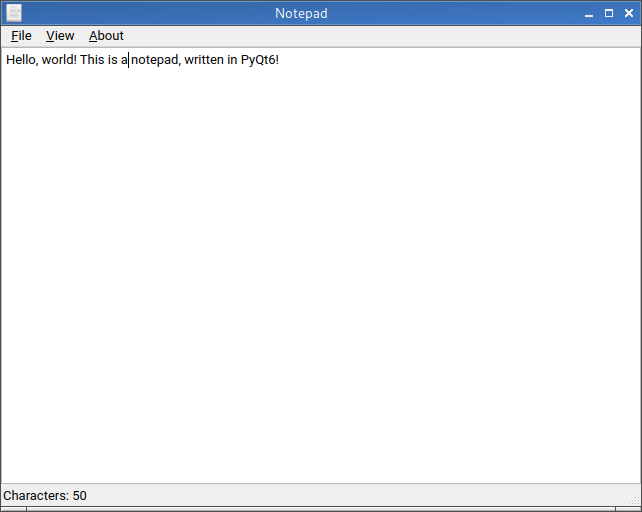
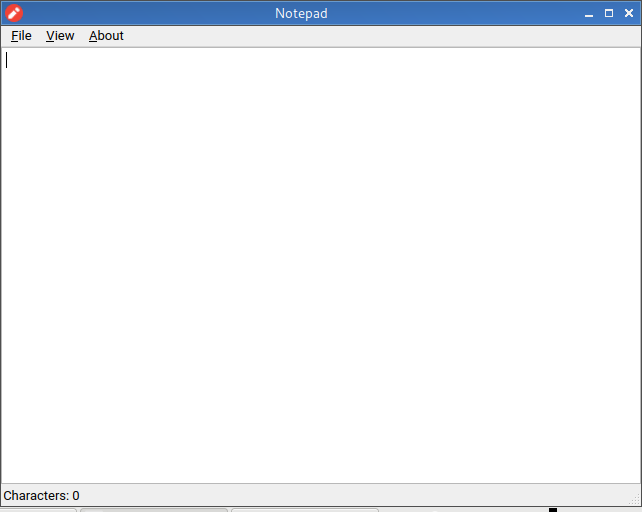
Some improvements

Changed region(s): [[0.0, 0.9375, 1.0, 1.0], [0.0, 0.0938, 0.4361, 0.125], [0.0, 0.0, 0.0312, 0.0625]]

diff --git a/pyqt-notepad.py b/pyqt-notepad.py
@@ -8,6 +8,7 @@ class Window(QMainWindow):
 
         self.setWindowTitle("Notepad")
         self.resize(640,480)
+        self.setWindowIcon(QtGui.QIcon.fromTheme(u"accessories-text-editor"))
         
         font = QtGui.QFont()
 
@@ -35,14 +36,10 @@ class Window(QMainWindow):
         font_settings = view_menu.addAction("Font settings", self.action_clicked)
 
         about = about_menu.addAction("About program", self.action_clicked)
-        
-        if sys.platform == "linux":
-            self.setWindowIcon(QtGui.QIcon.fromTheme(u"accessories-text-editor"))
-            open_file.setIcon(QtGui.QIcon.fromTheme(u"document-open"))
-            save_file.setIcon(QtGui.QIcon.fromTheme(u"document-save-as"))
-            about.setIcon(QtGui.QIcon.fromTheme(u"help-about"))
-        else:
-            self.setWindowIcon(QtGui.QIcon("icon.png"))
+
+        open_file.setIcon(QtGui.QIcon.fromTheme(u"document-open"))
+        save_file.setIcon(QtGui.QIcon.fromTheme(u"document-save-as"))
+        about.setIcon(QtGui.QIcon.fromTheme(u"help-about"))
 
         self.status_bar = QStatusBar(self)
         self.setStatusBar(self.status_bar)
